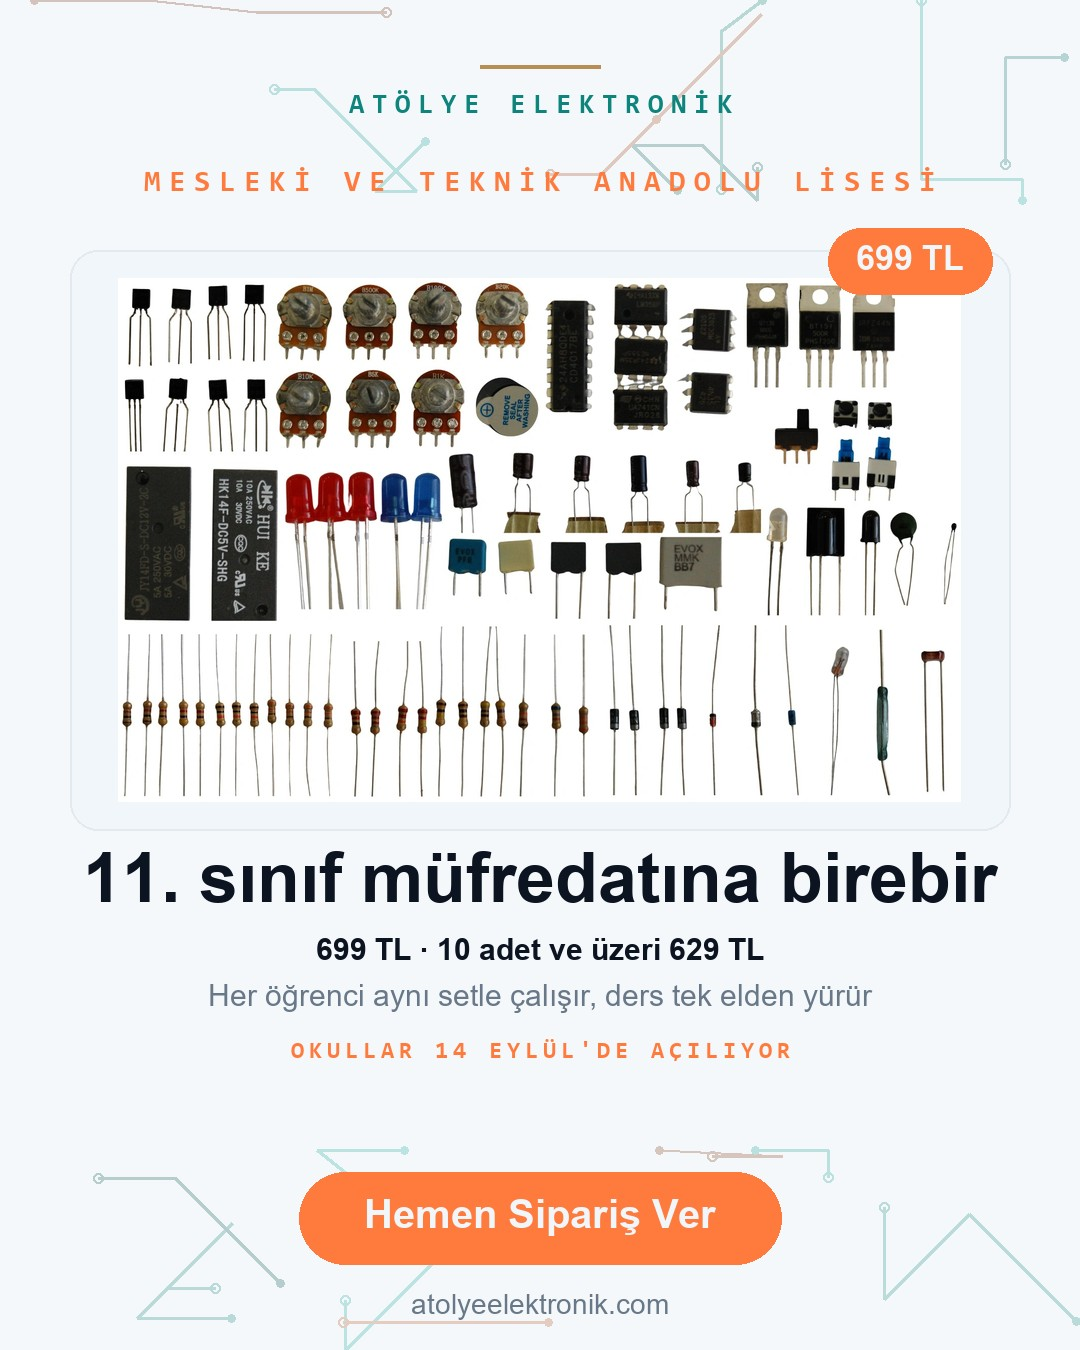
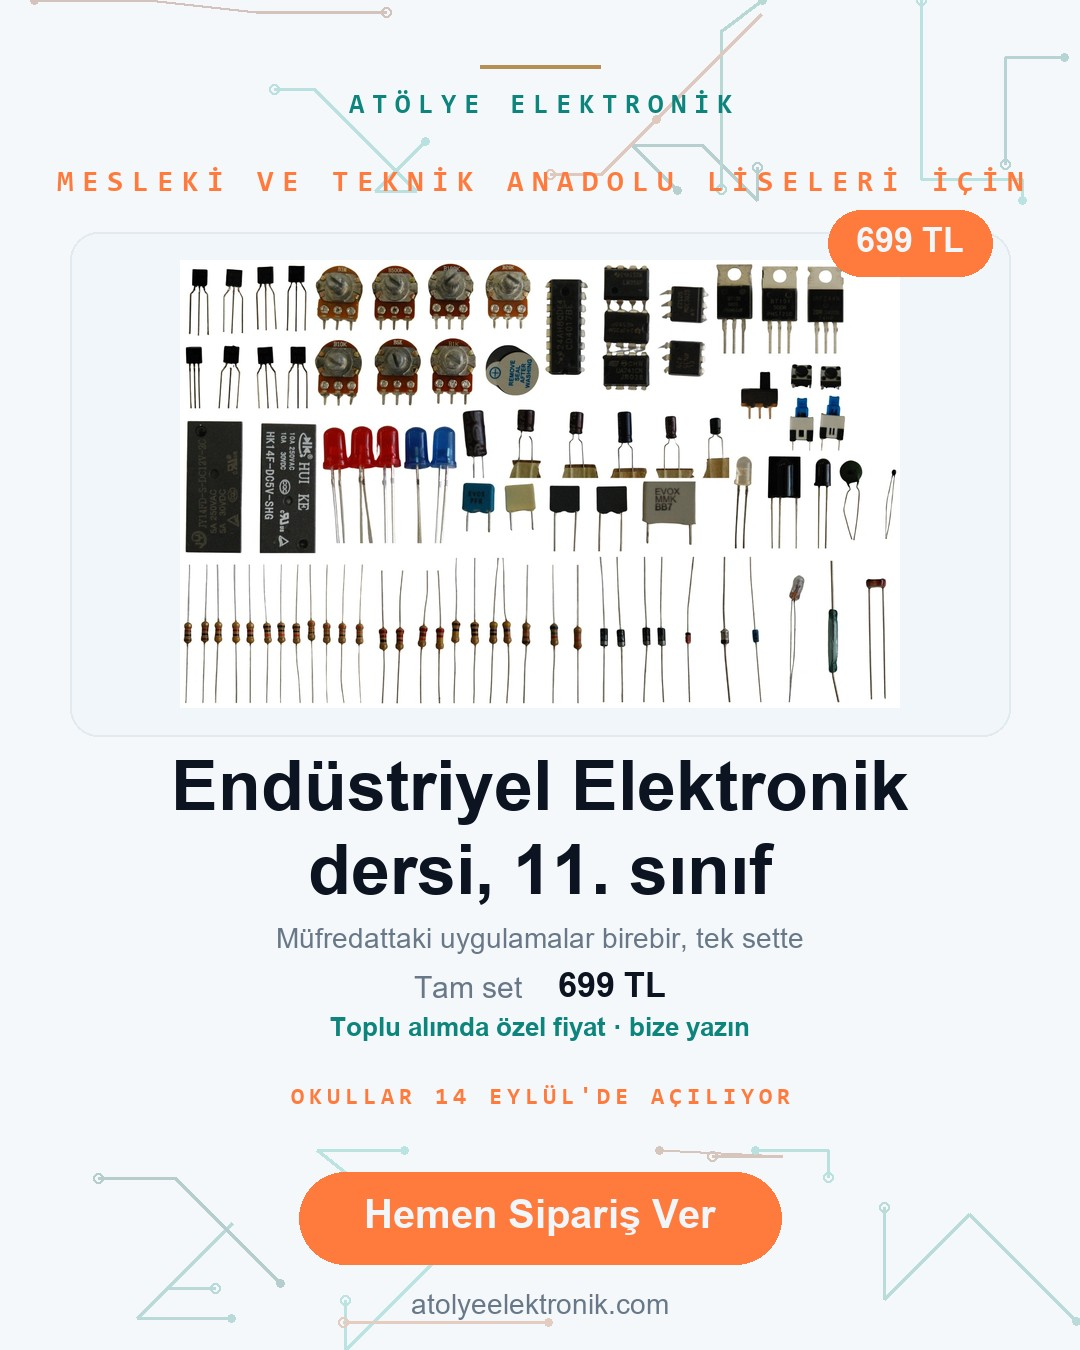
fix: serit okul adi gibi okunmasin, fiyatlar adet+TL alt alta, ders eslemesi
- SERIT 'MESLEKI VE TEKNIK ANADOLU LISELERI ICIN': marka satirinin altinda
  tekil hali okul adi gibi okunuyordu.
- Fiyatlar tek satir yerine adet/tutar sutunlu tablo. '90' rakami birimsiz
  kaliyordu.
- Toptan indirimi yalnizca defterlerde acik fiyatla; digerlerinde
  'Toplu alimda ozel fiyat - bize yazin'.
- Endustriyel set = 11. sinif Endustriyel Elektronik dersi,
  Arduino = Mikrodenetleyiciler ve Robotik Kodlama dersi.
- Yerlesim tasarsa destek cumlesi kendini dusuruyor + uretimde uyariyor.

Changed region(s): [[0.0611, 0.1244, 0.9472, 0.84], [0.0917, 0.6222, 0.1528, 0.6844]]

diff --git a/tools/meta_ogretmen_gorsel.py b/tools/meta_ogretmen_gorsel.py
@@ -13,7 +13,7 @@ anlatır ("tüm sınıf, tek sipariş, tek fatura").
     kart kaydırılıp geçilir. Metin kısa tutuldu, işi fotoğraf yapıyor.
 
 Kitleyi görselin kendisi eliyor: üstteki turuncu şerit doğrudan "MESLEKİ VE
-TEKNİK ANADOLU LİSESİ" diyor — ürünler bu okulların müfredatına göre
+TEKNİK ANADOLU LİSELERİ İÇİN" diyor — ürünler bu okulların müfredatına göre
 hazırlandı, genel liseye gösterilen her gösterim boşa gidiyor. Meta'da meslek hedeflemesi kalmadığı için
 (bkz. meta-ads-kurulum.md) eleme işini yaratıcı yapıyor.
 
@@ -36,7 +36,7 @@ from src.carousel_gorsel import (  # noqa: E402
     _mono, _normal, _sigdir,
 )
 
-SERIT = "MESLEKİ VE TEKNİK ANADOLU LİSESİ"
+SERIT = "MESLEKİ VE TEKNİK ANADOLU LİSELERİ İÇİN"
 MARKA = "ATÖLYE ELEKTRONİK"
 SITE = "atolyeelektronik.com"
 
@@ -52,23 +52,25 @@ CDN = "https://cdn.shopify.com/s/files/1/0801/9692/7717/files/"
 # görselinde rakam görmeyen kullanıcı tıklamıyor, fiyatı merak edip kaydırıyor.
 # Defterde birim "öğrenci başına" — öğretmenin karar verdiği birim bu, 2.751 TL
 # yerine 85 TL görmek kararı kolaylaştırıyor. Defter paketlerinde adet başı
-# sabit 85 TL (tekli 90); paketi olmayan ürünlerde 10 adet ve üzeri
-# otomatik %10.
+# sabit 85 TL (tekli 90).
+#
+# Toptan indirimi YALNIZ defterlerde açık fiyatla veriliyor (kullanıcı 28.08).
+# Diğer ürünlerde adede göre özel fiyat konuşuluyor; görselde sabit bir oran
+# yazmak sonradan pazarlık alanını kapatıyor.
+TOPTAN = "Toplu alımda özel fiyat · bize yazın"
 REKLAMLAR = [
     # Staj defteri ve temrin defteri AYRI reklama cikiyor (kullanici 28.08):
     # farkli urunler, farkli arama terimleri, farkli ders baglami. Tek
     # "defterler" reklami ikisini de bulanik anlatiyordu.
     {
         "dosya": "meta-ogretmen-staj-defteri.png",
-        # Shopify'daki kapak fotografinda MEB amblemi var; Trendyol defterleri
-        # tam da bu yuzden reddetmisti (bkz. trendyol-defter-urunleri-red).
-        # Bu kare TY onayindan gecen, amblemsiz surum.
         "foto": "kaynak/staj-defteri.jpg",
         "rozet_fiyat": "öğrenci başına 85 TL",
         "baslik": "Staj defteri, tek siparişte",
         "destek": "Tek fatura · tek kargo · aynı gün gönderim",
-        "fiyatlar": "Tekli 90 · 10'lu 850 · 20'li 1.700 · 30'lu 2.550 TL",
-        "kategori": "İŞLETMELERDE MESLEKİ EĞİTİM İŞ DOSYASI",
+        "fiyatlar": [("1 adet", "90 TL"), ("10 adet", "850 TL"),
+                     ("20 adet", "1.700 TL"), ("30 adet", "2.550 TL")],
+        "toptan": None,
     },
     {
         "dosya": "meta-ogretmen-temrin-defteri.png",
@@ -76,8 +78,9 @@ REKLAMLAR = [
         "rozet_fiyat": "öğrenci başına 85 TL",
         "baslik": "Temrin defteri, tek siparişte",
         "destek": "48 yaprak 96 sayfa · tek fatura · aynı gün kargo",
-        "fiyatlar": "Tekli 90 · 10'lu 850 · 20'li 1.700 · 30'lu 2.550 TL",
-        "kategori": "ATÖLYE TEMRİN DEFTERİ",
+        "fiyatlar": [("1 adet", "90 TL"), ("10 adet", "850 TL"),
+                     ("20 adet", "1.700 TL"), ("30 adet", "2.550 TL")],
+        "toptan": None,
     },
     {
         "dosya": "meta-ogretmen-takim-cantasi.png",
@@ -85,36 +88,41 @@ REKLAMLAR = [
         "rozet_fiyat": "1.990 TL",
         "baslik": "Atölye dersine hazır sınıf",
         "destek": "Pense, havya, multimetre, lehim takımı",
-        "fiyatlar": "17 parça tam set 1.990 TL · 10+ adette 1.791 TL",
-        "kategori": "MESLEK LİSESİ TAKIM ÇANTASI",
+        "fiyatlar": [("17 parça tam set", "1.990 TL")],
+        "toptan": TOPTAN,
     },
     {
         "dosya": "meta-ogretmen-endustriyel.png",
         "foto": CDN + "EndElkhepsi.webp?v=1782335968",
         "rozet_fiyat": "699 TL",
-        "baslik": "11. sınıf müfredatına birebir",
-        "destek": "Her öğrenci aynı setle çalışır, ders tek elden yürür",
-        "fiyatlar": "699 TL · 10 adet ve üzeri 629 TL",
-        "kategori": "ENDÜSTRİYEL ELEKTRONİK SETİ",
+        "baslik": "Endüstriyel Elektronik dersi, 11. sınıf",
+        "destek": "Müfredattaki uygulamalar birebir, tek sette",
+        "fiyatlar": [("Tam set", "699 TL")],
+        "toptan": TOPTAN,
     },
     {
         "dosya": "meta-ogretmen-arduino.png",
         "foto": CDN + "Baslangicseti.png?v=1785260927",
         "rozet_fiyat": "769 TL",
-        "baslik": "Proje dersine hazır set",
+        "baslik": "Mikrodenetleyiciler ve Robotik Kodlama",
         "destek": "Türkçe kaynak ve devre örnekleriyle",
-        "fiyatlar": "46 parça 769 · 56 parça 1.092 · 88 parça 1.766 TL",
-        "kategori": "ARDUINO BAŞLANGIÇ SETİ",
+        "fiyatlar": [("46 parça", "769 TL"), ("56 parça", "1.092 TL"),
+                     ("88 parça", "1.766 TL")],
+        "toptan": TOPTAN,
     },
 ]
 
 ACELE = "OKULLAR 14 EYLÜL'DE AÇILIYOR"
 CTA = "Hemen Sipariş Ver"
 
+# Turuncu aciliyet şeridi bunun altına giriyor; CTA düğmesinin üst kenarı
+# 1172px. Metin bloğu bu tabanı geçerse şerit metnin üstüne biniyor.
+METIN_TABANI = 1096
+
 CIKTI_DIZIN = pathlib.Path(__file__).resolve().parents[1] / "posts" / "media" / "meta-ogretmen"
 
 # Fotograf kartinin yerlesimi
-KART = (70, 250, W - 70, 830)
+KART = (70, 232, W - 70, 736)
 
 
 def _zemin_ac(seed: str) -> tuple[Image.Image, ImageDraw.ImageDraw]:
@@ -216,32 +224,60 @@ def uret(reklam: dict) -> pathlib.Path:
     fb, satirlar, boyut = _sigdir(
         d, reklam["baslik"], W - 160, [([70, 62], 2), ([54], 3)]
     )
-    y = 838
+    y = 746
     for s in satirlar:
         d.text(((W - d.textlength(s, font=fb)) / 2, y), s, font=fb, fill=LACIVERT)
         y += int(boyut * 1.2)
 
-    # Tum fiyatlar tek satirda. Tek fiyat gosterip gerisini gizlemek alicida
-    # "acaba kacmis" sorusu birakiyor; secenekleri gorunce karar hizlaniyor.
-    ff = _bold(30)
-    while d.textlength(reklam["fiyatlar"], font=ff) > W - 120 and ff.size > 20:
-        ff = _bold(ff.size - 1)
-    d.text(((W - d.textlength(reklam["fiyatlar"], font=ff)) / 2, y + 10),
-           reklam["fiyatlar"], font=ff, fill=LACIVERT)
-    y += 10 + ff.size + 16
-
-    # Destek cümlesi — gerekirse küçülterek tek satırda tut
-    fd = _normal(30)
+    # Destek cümlesi — gerekirse küçülterek tek satırda tut. Blok taşacaksa
+    # tamamen düşer: başlık iki satıra sığdığında (Arduino, endüstriyel) üç
+    # fiyat kademesi + toptan satırı zaten CTA'ya kadar olan yeri dolduruyor.
+    fd = _normal(28)
     while d.textlength(reklam["destek"], font=fd) > W - 140 and fd.size > 20:
         fd = _normal(fd.size - 2)
-    d.text(((W - d.textlength(reklam["destek"], font=fd)) / 2, y),
-           reklam["destek"], font=fd, fill=GRI)
-    y -= 16
+    kalan = len(reklam["fiyatlar"]) * 42 + (28 if reklam["toptan"] else 0)
+    if y + 8 + fd.size + 16 + kalan <= METIN_TABANI:
+        y += 8
+        d.text(((W - d.textlength(reklam["destek"], font=fd)) / 2, y),
+               reklam["destek"], font=fd, fill=GRI)
+        y += fd.size + 16
+    else:
+        y += 14
 
-    # Aciliyet — sezon penceresi dar, karari bugune cekiyor
+    # Fiyat kademeleri ALT ALTA, adet ve tutar ayrı sütunda. Tek satırda
+    # "Tekli 90 · 10'lu 850 · 20'li 1.700 TL" yazıyordu ve kullanıcı haklı
+    # olarak "90 ne, 90 TL mi?" diye sordu — birimi bir kez sona koymak
+    # okuyanı geri dönüp saymaya zorluyor.
+    fe = _normal(30)
+    ft = _bold(34)
+    kademeler = reklam["fiyatlar"]
+    eg = max(d.textlength(a, font=fe) for a, _ in kademeler)
+    tg = max(d.textlength(b, font=ft) for _, b in kademeler)
+    ara = 36
+    x0 = (W - (eg + ara + tg)) / 2
+    for etiket, tutar in kademeler:
+        d.text((x0 + eg - d.textlength(etiket, font=fe), y + 4), etiket,
+               font=fe, fill=GRI)
+        d.text((x0 + eg + ara, y), tutar, font=ft, fill=LACIVERT)
+        y += 42
+
+    # Toptan satırı yalnız defter dışındaki ürünlerde: defterde kademeli
+    # fiyat zaten yazılı, diğerlerinde adede göre özel fiyat konuşuluyor.
+    if reklam["toptan"]:
+        fto = _bold(26)
+        d.text(((W - d.textlength(reklam["toptan"], font=fto)) / 2, y + 4),
+               reklam["toptan"], font=fto, fill=TEAL)
+        y += 2 + fto.size
+
+    # Aciliyet — sezon penceresi dar, karari bugune cekiyor. CTA 1218'de
+    # sabit (ust kenari 1172); metin tabani 1120'yi gecerse yerlesim tasar,
+    # uretim sirasinda uyar ki sessizce bozuk gorsel cikmasin.
     fa = _mono(24)
     gen = _aralikli_genislik(d, ACELE, fa, aralik=5)
-    _aralikli(d, ((W - gen) / 2, y + 78), ACELE, fa, TURUNCU, aralik=5)
+    if y + 22 > METIN_TABANI + 24:
+        print(f"  UYARI: {reklam['dosya']} metin tabani {y:.0f}px — CTA'ya tasiyor")
+    _aralikli(d, ((W - gen) / 2, min(max(y + 22, 1086), METIN_TABANI + 24)), ACELE, fa,
+              TURUNCU, aralik=5)
 
     # CTA: alan adi degil EYLEM. Alan adi altta kucuk kaliyor.
     fp = _bold(40)
